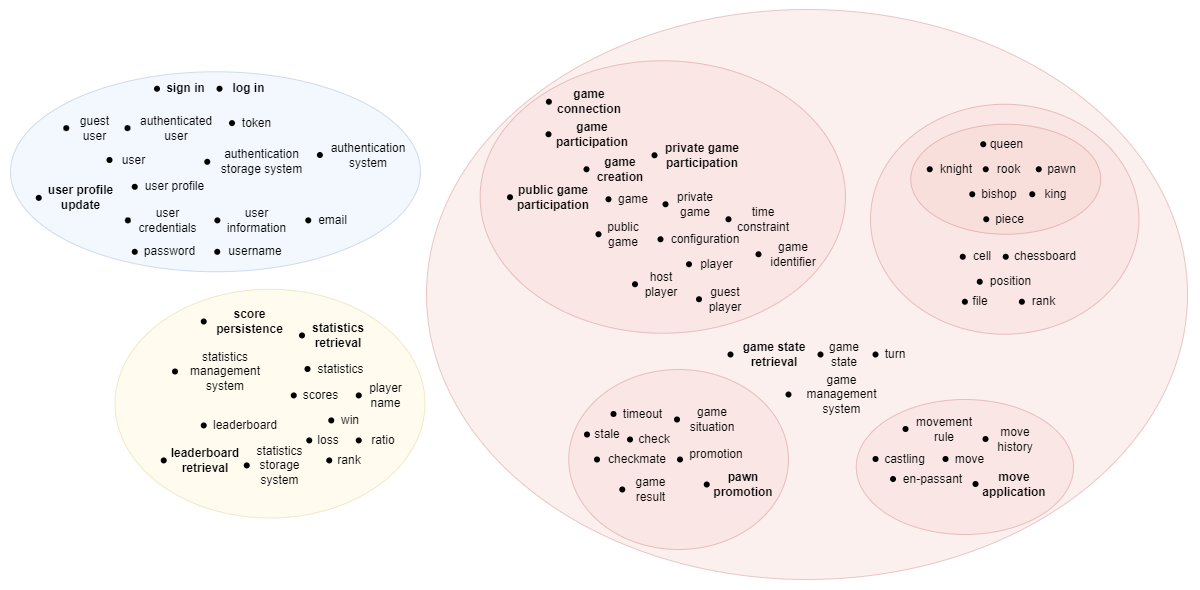
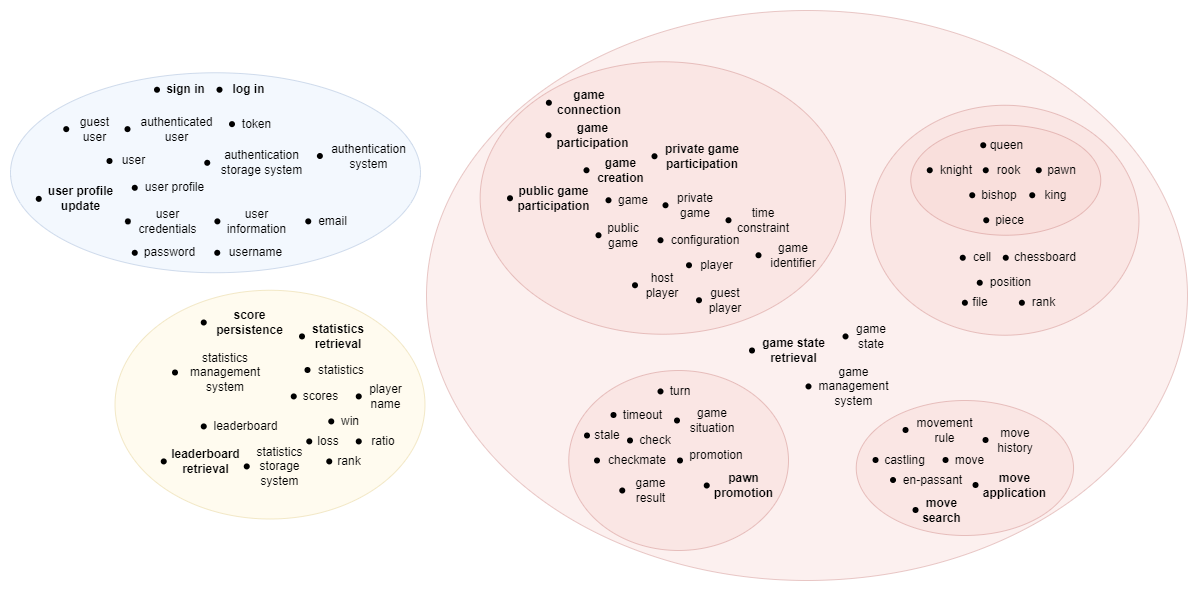
docs: add subdomain definition in the domain analysis chapter

diff --git a/docs/1-domain-analysis/index.md b/docs/1-domain-analysis/index.md
@@ -186,7 +186,7 @@ Alla ricezione del proprio token, l'utente guest assume il ruolo di `utente aute
 
 ![Sign-in story](/docs/resources/images/domain-storytelling/sign-in.png)
 
-### Autenticazione di un utente esistente
+### Autenticazione di un utente
 
 Il processo di `autenticazione di un utente` al sistema è simile a quello di registrazione di un
 nuovo utente, ma richiede che un utente già registrato prepari le proprie `credenziali` inviandole
@@ -236,13 +236,38 @@ di memorizzazione delle statistiche dei giocatori, inoltrandolo all'utente.
 ## Domain analysis
 
 A partire dalle storie individuate durante il _Domain Storytelling_, è stato possibile estrarre i
-concetti principali del dominio del problema. Analizzando le similarità e le relazioni tra tali
-concetti, è stato quindi possibile suddividere il dominio del problema in diversi sottodomini.
+concetti principali del dominio del problema.
 
 Di seguito, si riporta una proiezione dei concetti del dominio posizionati nello spazio in base alla
-loro similarità.
+loro similarità. Inoltre, in grassetto si riporta la posizione delle storie descritte durante il
+_Domain Storytelling_.
 
 ![Concepts grouping](/docs/resources/images/domain-analysis/subdomains.drawio.png)
+
+Analizzando le similarità e le relazioni tra tali concetti, è stato quindi possibile suddividere il
+dominio del problema in diversi sottodomini. In maggiore dettaglio, sono stati individuati tre
+macro-domini:
+
+- **Chess Game Subdomain**: racchiude tutti i concetti necessari per descrivere una partita di scacchi e le
+  possibili interazioni con essa. In particolare, questi concetti possono essere raggruppati ulteriormente
+  in altri sottodomini:
+  - **Game Configuration Subdomain**: racchiude tutti i concetti necessari per descrivere la configurazione
+    di una partita di scacchi, permettendo la creazione di un partita, la partecipazione a una partita
+    e la connessione a una partita.
+  - **Chessboard Subdomain**: racchiude tutti i concetti necessari per descrivere la scacchiera in una partita
+    di scacchi, contribuendo al reperimento dello stato di una partita di scacchi.
+  - **Game Situation Subdomain**: racchiude tutti i concetti necessari per descrivere la situazione attuale
+    in una partita di scacchi, permettendo la promozione di un pedone e la terminazione di una partita.
+  - **Move Subdomain**: racchiude tutti i concetti necessari per descrivere le mosse disponibili per un pezzo
+    sulla scacchiera, permettendo la ricerca e l'applicazione delle sue mosse.
+- **Statistics Subdomain**: racchiude tutti i concetti necessari per descrivere le statistiche di un giocatore
+  del sistema, permettendo il salvataggio dei punteggi dei giocatori, il reperimento delle statistiche di un
+  giocatore e il reperimento della classifica globale dei giocatori. La gestione della memorizzazione di tali
+  statistiche può essere affidata a un dominio separato, detto **Statistics Storage Subdomain**;
+- **Authentication Subdomain**: racchiude tutti i concetti necessari per descrivere il profilo di un utente
+  nel sistema, permettendo la registrazione di nuovi utenti, l'autenticazione di utenti già registrati e 
+  l'autorizzazione a operazioni sensibili, come l'aggiornamento del profilo di un utente. La gestione della
+  memorizzazione di tali dati può essere affidata a un dominio separato, detto **Authentication Storage Subdomain**.
 
 ## Ubiquitous Language
 
